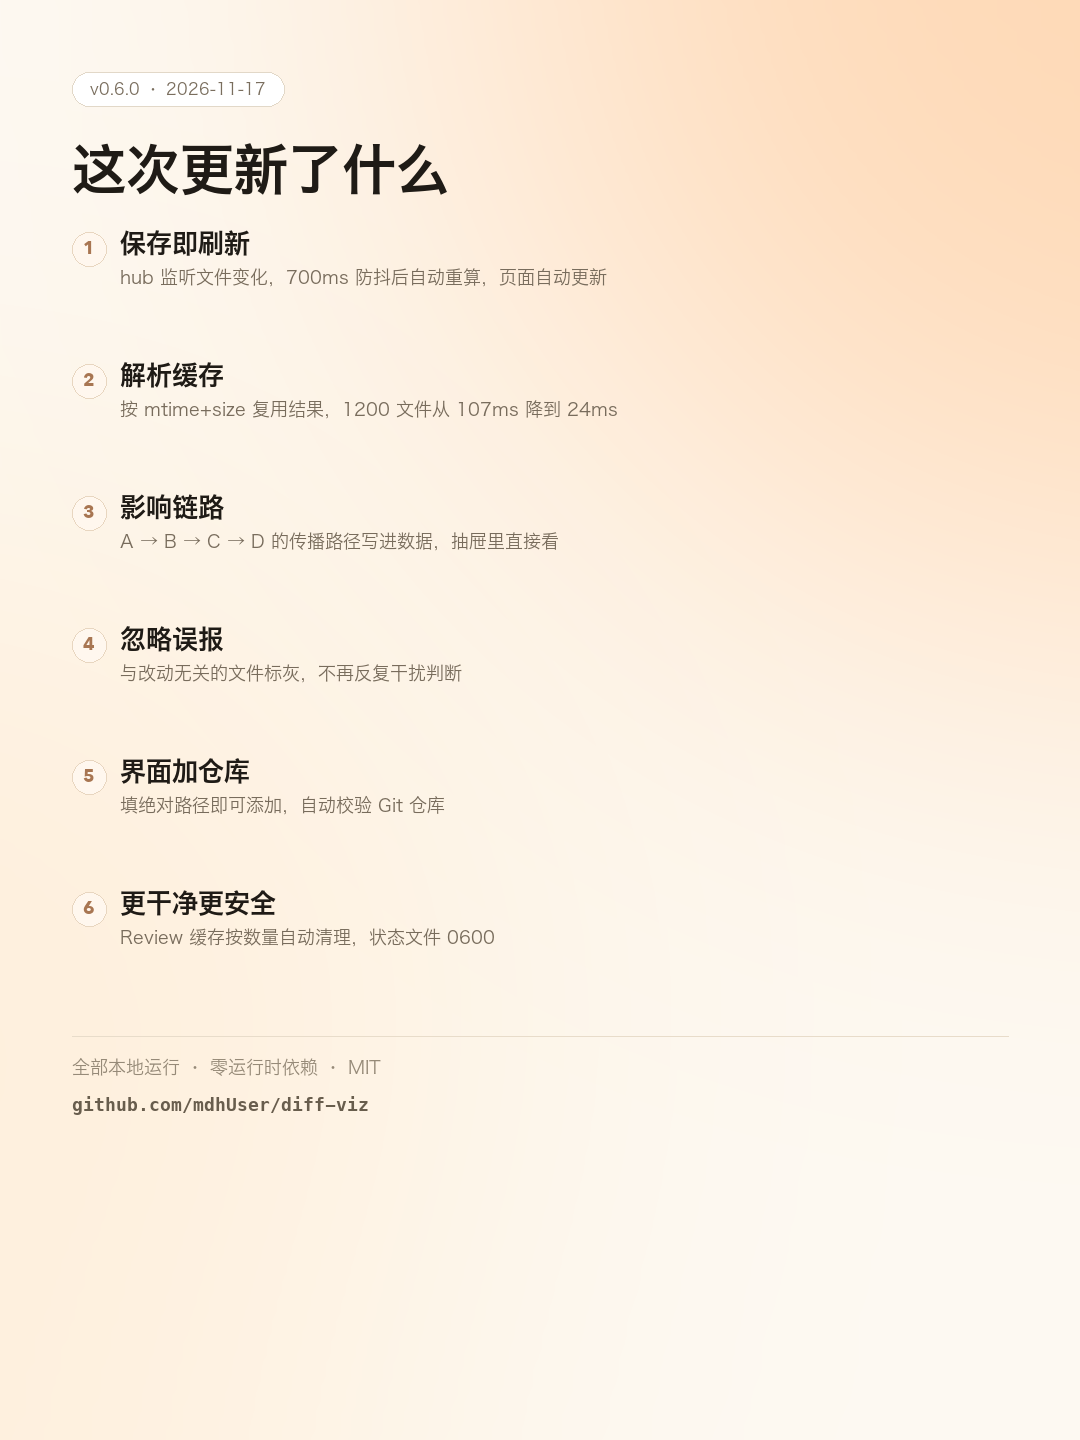
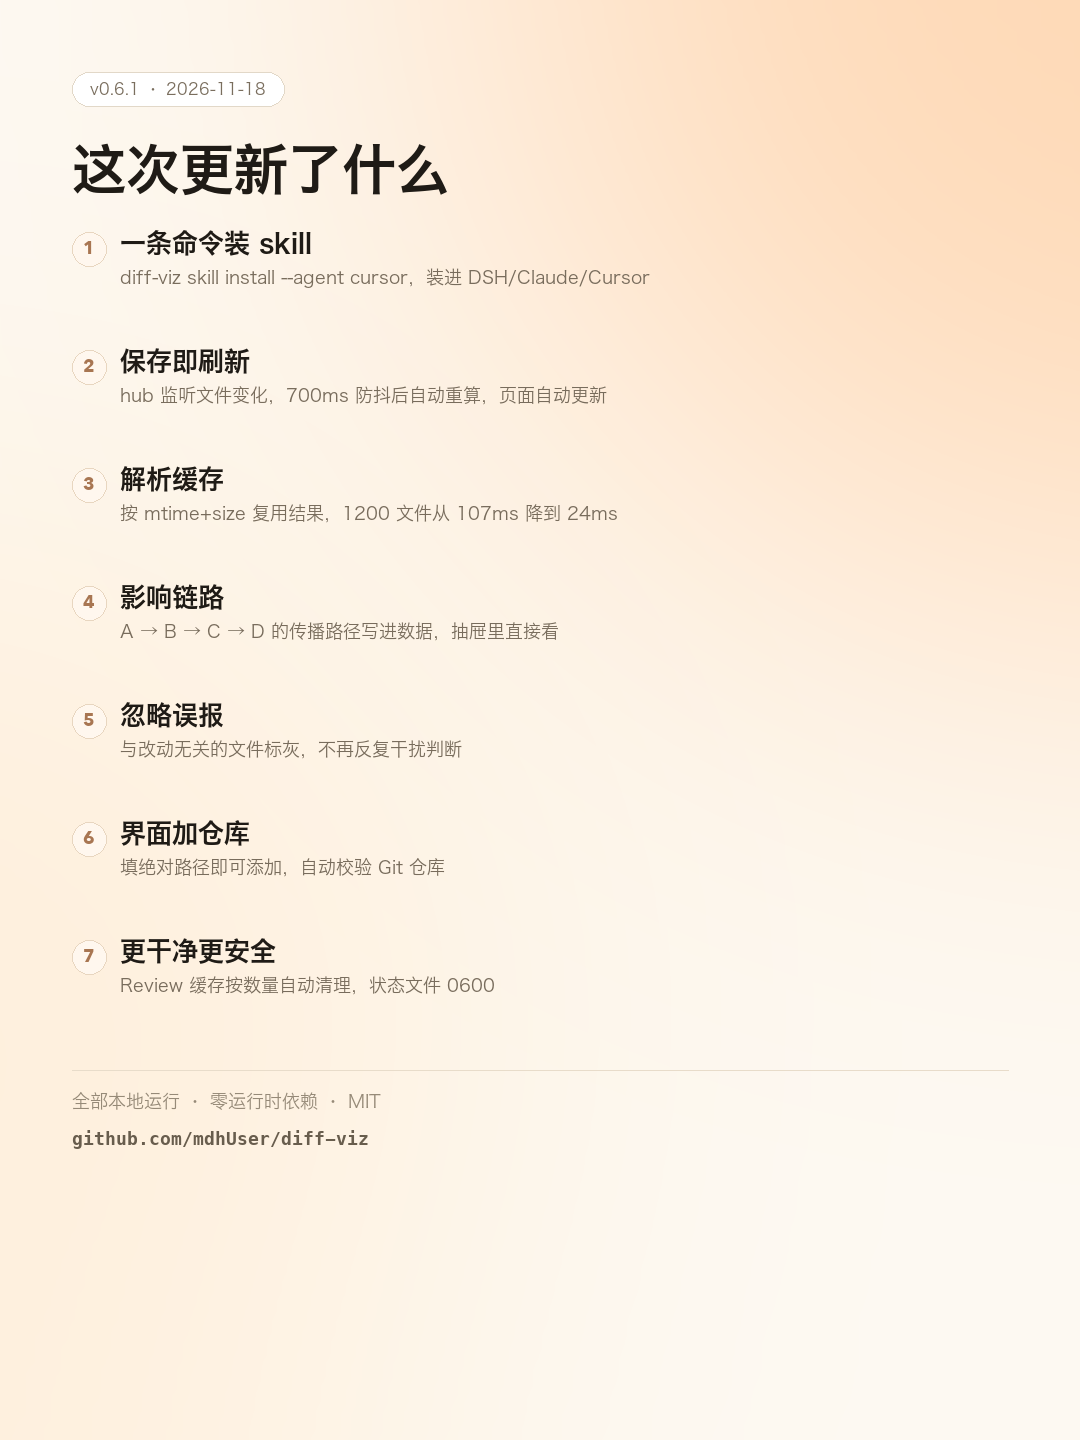
Refresh promo cover and copy for 0.6.1

diff --git a/docs/promo/README.md b/docs/promo/README.md
@@ -18,51 +18,54 @@
 
 发布顺序建议：封面 → `05-impact-chain.png` → `02-topology.png`，三张连起来是「更新了什么 → 为什么有用 → 实际长什么样」。
 
-## v0.6.0 通用短版
+## v0.6.1 通用短版
 
-> diff-viz 更到 v0.6.0 了，这次主要治「烦」：
+> diff-viz 更到 v0.6.1，这次主要治「烦」：
 >
+> · 一条命令装 skill：`diff-viz skill install --agent cursor`，DSH / Claude Code / Cursor 都能装
 > · 保存即刷新——改完不用再跑命令，图自己重算
 > · 影响链路——不只说谁受影响，还能看到 A→B→C 怎么传过去的
 > · 误报能忽略——标灰就完事，不用每次重新判断
 > · 界面里直接加仓库，不用回终端
 > · 解析加了缓存，1200 个文件从 107ms 降到 24ms
 >
-> 本地跑、零依赖、代码不上传。
+> `npx diff-viz-cli` 就能跑，本地、零依赖、代码不上传。
 > https://github.com/mdhUser/diff-viz
 
-## v0.6.0 小红书
+## v0.6.1 小红书
 
 > 标题：AI 改完代码，我终于不用手动重跑了
 >
 > 以前每次让 AI 改完，都要重新跑一遍工具才出图。
 > 现在保存就自动刷新，不到一秒拓扑图自己变。
 >
-> 这版 v0.6.0 更新了 6 件事：
-> 1⃣ 保存即刷新（watch + SSE）
-> 2⃣ 影响链路：A→B→C 看得见，还能点回去
-> 3⃣ 误报一键忽略，图上标灰
-> 4⃣ 界面里直接加仓库
-> 5⃣ 解析缓存，1200 文件 107ms→24ms
-> 6⃣ 缓存自动清理，状态文件收 0600
+> 这版更新了 7 件事：
+> 1⃣ 一条命令把 skill 装进 Cursor / Claude Code / DSH
+> 2⃣ 保存即刷新（watch + SSE）
+> 3⃣ 影响链路：A→B→C 看得见，还能点回去
+> 4⃣ 误报一键忽略，图上标灰
+> 5⃣ 界面里直接加仓库
+> 6⃣ 解析缓存，1200 文件 107ms→24ms
+> 7⃣ 缓存自动清理，状态文件收 0600
 >
 > 全部本地运行，代码不上传。
-> GitHub 搜 diff-viz（作者 mdhUser）
+> `npx diff-viz-cli` 就能用，GitHub 搜 diff-viz（作者 mdhUser）
 >
 > #程序员 #AI编程 #代码review #开源工具 #效率工具
 
-## v0.6.0 X / Twitter
+## v0.6.1 X / Twitter
 
-> diff-viz v0.6.0 is out.
+> diff-viz v0.6.1 is out.
 >
-> It now watches your repo: save a file, and the graph re-renders about a second later (SSE push, no re-run).
-> Also: impact chains (A→B→C), one-click ignore for false positives, add repos from the UI, and a scan cache (1200 files: 107ms → 24ms).
+> New: `diff-viz skill install --agent cursor` drops the skill into DSH / Claude Code / Cursor in one command.
+> Plus the 0.6.0 work: it watches your repo and re-renders the graph about a second after you save, impact chains (A→B→C), one-click ignore for false positives, add repos from the UI, and a scan cache (1200 files: 107ms → 24ms).
 >
-> Local, zero-dep, MIT. https://github.com/mdhUser/diff-viz
+> `npx diff-viz-cli` · local · zero-dep · MIT
+> https://github.com/mdhUser/diff-viz
 
 ## 一句话版
 
-> diff-viz v0.6.0：改完代码图自己刷新，还能看到影响是怎么一层层传过来的。本地、零依赖、MIT。
+> diff-viz v0.6.1：`npx diff-viz-cli` 一条命令跑起来，一条命令把 skill 装进 Cursor，改完代码图自己刷新。本地、零依赖、MIT。
 
 ---
 
